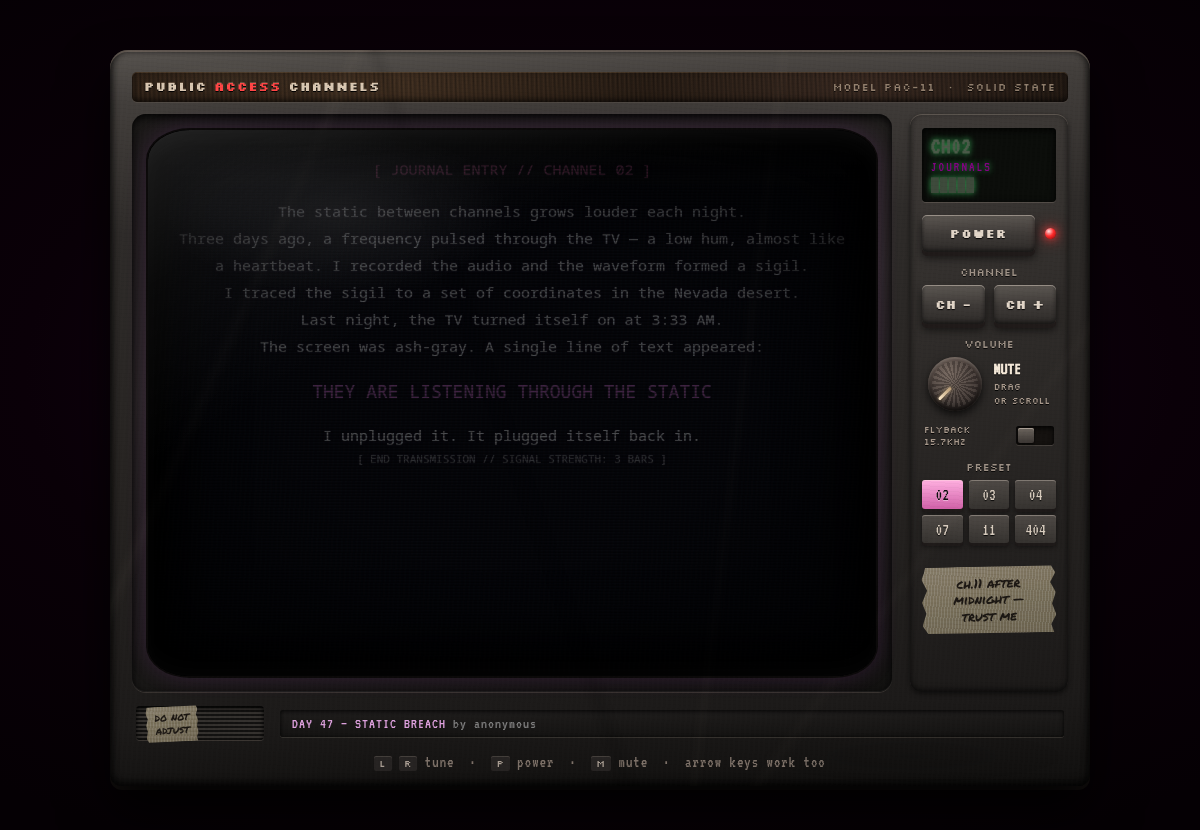
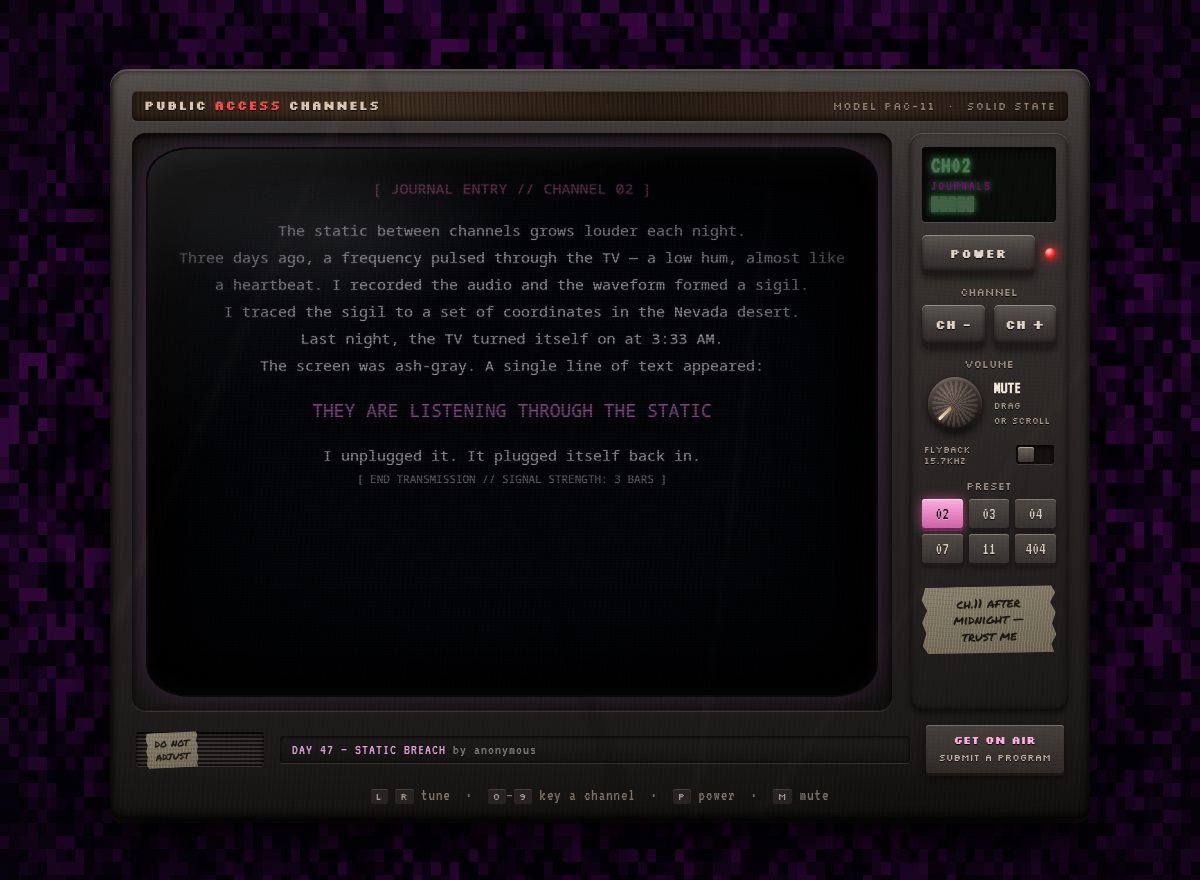
Add community broadcast submission workflow

diff --git a/public_access_submit.html b/public_access_submit.html
@@ -196,7 +196,7 @@
                 <div class="preview-content" id="preview-content">Your HTML will appear here...</div>
             </div>
 
-            <button type="submit" class="btn-submit">📡 Submit to Channel</button>
+            <button type="submit" class="btn-submit">📡 Build my program</button>
 
             <div class="submit-result" id="submit-result"></div>
         </form>
@@ -241,21 +241,49 @@
                 timestamp: new Date().toISOString()
             };
 
-            // Try to email or copy to clipboard
             var submission = JSON.stringify(program, null, 2);
 
-            // Copy to clipboard for manual submission
+            // Prefill the repository's submission form. The field names match the
+            // ids in .github/ISSUE_TEMPLATE/broadcast-submission.yml.
+            var CHANNEL_OPTION = {
+                '2':  'CH02 — JOURNALS (personal logs, diary entries, thoughts in the dark)',
+                '3':  'CH03 — ART (visual works, pixel art, glitch compositions)',
+                '4':  'CH04 — COMPUTERS (code, terminal output, ASCII and text-mode art)',
+                '7':  'CH07 — PERSONAL (link pages, bios, personal spaces)',
+                '11': 'CH11 — UNKNOWN (experimental, uncategorised, anomalous)'
+            };
+            var issueUrl =
+                'https://github.com/numbpill3d/public-access-channel/issues/new' +
+                '?template=broadcast-submission.yml' +
+                '&title=' + encodeURIComponent('[CH' + channelNum + '] ' + program.title) +
+                '&prog_title=' + encodeURIComponent(program.title) +
+                '&author=' + encodeURIComponent(program.author) +
+                '&html=' + encodeURIComponent(program.html);
+            if (CHANNEL_OPTION[String(channelNum)]) {
+                issueUrl += '&channel=' + encodeURIComponent(CHANNEL_OPTION[String(channelNum)]);
+            }
+
+            function showResult(note) {
+                result.className = 'submit-result success';
+                result.innerHTML =
+                    '<p style="margin-bottom:10px"><strong>Your program is ready.</strong> ' + note + '</p>' +
+                    '<p style="margin-bottom:10px">' +
+                    '<a href="' + issueUrl + '" target="_blank" rel="noopener" ' +
+                    'style="display:inline-block;padding:10px 16px;background:#8b008b;color:#fff;' +
+                    'text-decoration:none;border-radius:4px;font-weight:bold">' +
+                    'Send it to CH' + channelNum + ' &rarr;</a>' +
+                    '</p>' +
+                    '<p style="font-size:12px;opacity:.75">Opens a pre-filled submission on GitHub. ' +
+                    'A person reads every one before it goes on air. ' +
+                    'No GitHub account? The JSON below works too — send it however you like.</p>' +
+                    '<pre style="margin-top:10px">' + submission.replace(/</g, '&lt;') + '</pre>';
+                result.style.display = 'block';
+            }
+
             navigator.clipboard.writeText(submission).then(function() {
-                result.className = 'submit-result success';
-                result.innerHTML = '✅ Submission copied to clipboard! Add this to <code>public_access_channels.js</code> in the CH' + channelNum + ' (' + channelName + ') channel.';
-                result.style.display = 'block';
-                form.reset();
-                preview.textContent = 'Your HTML will appear here...';
+                showResult('It is also copied to your clipboard.');
             }).catch(function() {
-                // Fallback: show the JSON
-                result.className = 'submit-result success';
-                result.innerHTML = '<pre>' + submission + '</pre><br>Copy the above JSON and add it to the CH' + channelNum + ' (' + channelName + ') channel in <code>public_access_channels.js</code>';
-                result.style.display = 'block';
+                showResult('');
             });
         });
     })();

diff --git a/index.html b/index.html
@@ -859,6 +859,40 @@
                 radial-gradient(ellipse 14% 4% at 12% 4%, rgba(255,230,200,0.05), transparent 70%);
         }
 
+        /* ═══ Engraved plate: how to get on the air ═══ */
+        .submit-plate {
+            flex-shrink: 0;
+            display: block;
+            padding: 7px 13px 8px;
+            border-radius: 3px;
+            font-family: var(--font-panel);
+            font-size: 10px;
+            letter-spacing: 0;
+            line-height: 1.5;
+            text-align: center;
+            text-decoration: none;
+            color: #c4b3a4;
+            background: linear-gradient(180deg, #46403c, #2e2a27);
+            box-shadow:
+                inset 0 1px 0 rgba(255, 240, 225, 0.28),
+                0 3px 0 #1b1817,
+                0 4px 6px rgba(0, 0, 0, 0.55);
+            text-shadow: 0 1px 1px rgba(0, 0, 0, 0.9);
+            transition: transform 0.05s linear, box-shadow 0.05s linear, color 0.15s;
+        }
+        .submit-plate:hover { color: #ffc4ec; background: linear-gradient(180deg, #524a45, #37322e); }
+        .submit-plate:active {
+            transform: translateY(3px);
+            box-shadow: inset 0 2px 5px rgba(0, 0, 0, 0.8), 0 0 0 #1b1817;
+        }
+        .submit-plate b {
+            display: block;
+            font-size: 11px;
+            color: #ffb0e0;
+            margin-bottom: 1px;
+        }
+        .submit-plate:focus-visible { outline: 2px solid #ff69b4; outline-offset: 3px; }
+
         .hint {
             margin-top: 14px;
             text-align: center;
@@ -892,6 +926,8 @@
             .knob-wrap { flex: 1 1 46%; }
             .presets { flex: 1 1 100%; grid-template-columns: repeat(6, 1fr); }
             .speaker { width: 74px; height: 26px; }
+            .cabinet-foot { flex-wrap: wrap; }
+            .submit-plate { flex: 1 1 100%; }
             .tube { border-radius: 26px / 20px; }
             .fx-curve, .fx-glare { border-radius: 26px / 20px; }
             .screen-content { padding: 16px 18px; font-size: 13px; }
@@ -1032,10 +1068,15 @@
                     <span class="title" id="prog-title">--:--</span>
                     <span class="author"> by </span><span class="author" id="prog-author">unknown</span>
                 </div>
+
+                <a class="submit-plate" href="public_access_submit.html">
+                    <b>GET ON AIR</b>
+                    submit a program
+                </a>
             </div>
 
             <div class="hint">
-                <kbd>L</kbd> <kbd>R</kbd> tune &nbsp;·&nbsp; <kbd>P</kbd> power &nbsp;·&nbsp; <kbd>M</kbd> mute &nbsp;·&nbsp; arrow keys work too
+                <kbd>L</kbd> <kbd>R</kbd> tune &nbsp;·&nbsp; <kbd>0</kbd>–<kbd>9</kbd> key a channel &nbsp;·&nbsp; <kbd>P</kbd> power &nbsp;·&nbsp; <kbd>M</kbd> mute
             </div>
         </div>
     </div>

diff --git a/README.md b/README.md
@@ -31,6 +31,7 @@ It's a television, so you operate it like one. The whole cabinet is live.
 | Control | What it does |
 |---|---|
 | **CH −** / **CH +** buttons, or `←` `→` `[` `]` | Tune down / up a channel |
+| `0`–`9` | Key a channel number directly, the way a set with a keypad works |
 | **Preset** buttons (02, 03, 04, 07, 11, 404) | Jump straight to a channel |
 | **POWER**, or `P` | Switch the set off and on — tube collapse, degauss, and warm-up included |
 | **VOLUME** knob — drag it, scroll it, or focus it and use `↑` `↓` | Master volume. Starts at **MUTE** |
@@ -44,9 +45,15 @@ It's a television, so you operate it like one. The whole cabinet is live.
 
 The television isn't a picture of a television. It's built out of the page.
 
+**The backdrop** behind the set is a cyclic cellular automaton — a coarse grid of cells, each advancing to the next state once enough of its neighbours have got there first. It never settles; it organises itself into drifting spirals, and the palette it's drawn from slides around a colour ring so the whole field changes character over several minutes. Cyclic rather than Game of Life on purpose: Life stabilises or dies out, and a background that freezes just looks broken.
+
 **The tube** is a true 4:3 rectangle with the uneven corner radius of curved glass, and the picture carries the artifacts a real one would: an RGB **shadow mask** at the sub-pixel level, **scanlines** with a slow mains flicker, a **bright band rolling** up a slightly out-of-sync picture, **corner vignetting**, **phosphor bloom** on every glyph, and a **specular reflection** across the faceplate. Switch it off and the image **collapses to a white line, then a dot**.
 
 **Between channels** the tuner loses its grip: the picture **tears sideways**, real animated **snow** fills the tube, and the channel badge flashes in the corner as it locks on.
+
+**The signal is not reliable.** At irregular intervals the picture breaks up — the three guns lose convergence and the image splits red-and-cyan, the frame slips sideways, vertical hold lets go, tracking bands drift across the screen. Roughly one break in four lets through **a frame that wasn't part of the broadcast**. Those frames are held for three frames and deliberately kept dark and low-contrast, with a nine-second floor between them: a bright full-screen flash at that duration is the photosensitive-seizure trigger profile, and accuracy isn't worth hurting anyone over. `prefers-reduced-motion` switches interference and injection off entirely.
+
+> The dial has six channels on it. The tuner accepts numbers the dial doesn't print. There's a note in the browser console for anyone who thinks to look.
 
 **Sound** is synthesized live with the Web Audio API — there are no audio files in this repo. Turning the volume up gets you the carrier hiss of a live tube, a burst of static across every channel change, a two-tone lock confirmation, the mechanical clunk of the power switch, the wobbling hum of the **degaussing coil** at power-on, and a click with real body under each button.
 
@@ -69,11 +76,15 @@ Six channels, currently carrying 11 programs between them.
 
 CH03 and CH11 carry the **NHI pet** — a low-poly Three.js entity that floats, tracks your cursor with three eye-sensors, cycles moods when clicked, and gets hungry if you leave it alone.
 
-## Broadcasting something
+## Getting on the air
 
-**The easy way.** Open [`public_access_submit.html`](public_access_submit.html) in a browser. Fill in a title, your handle, a channel, and your HTML — it previews live and copies the finished JSON to your clipboard. Paste that into the right channel's `programs` array in `public_access_channels.js`.
+**Anyone can be on a channel.** You don't need to know how any of this works, and you don't need to write HTML — a link to your site is enough.
 
-**By hand.** Add an object to the `programs` array of any channel in `public_access_channels.js`:
+**The short way.** [**Open a submission**](https://github.com/numbpill3d/public-access-channel/issues/new?template=broadcast-submission.yml) and fill in the form. Give it a title, a handle, and either the address of your site or a short piece of HTML. Someone reads every submission before it goes on air.
+
+**With a preview first.** Open [the submit page](https://numbpill3d.github.io/public-access-channel/public_access_submit.html) — the **GET ON AIR** plate on the front of the set links straight to it. It previews your program on a mock screen as you type, then hands you a pre-filled submission to send.
+
+**If you'd rather do it yourself.** Fork the repository, add an object to the `programs` array of any channel in `public_access_channels.js`, and open a pull request:
 
 ```javascript
 {
@@ -91,7 +102,7 @@ A few things worth knowing:
 - Keep it short. This is a TV spot, not a homepage.
 - `duration` is a hint — the rotation is what actually drives the pacing.
 
-Then open `index.html` to check it, and send a pull request. If PRs aren't your thing, open an issue with your program pasted in and it'll get added.
+Then open `index.html` to check it before you send the pull request.
 
 ## Deploying your own
 
